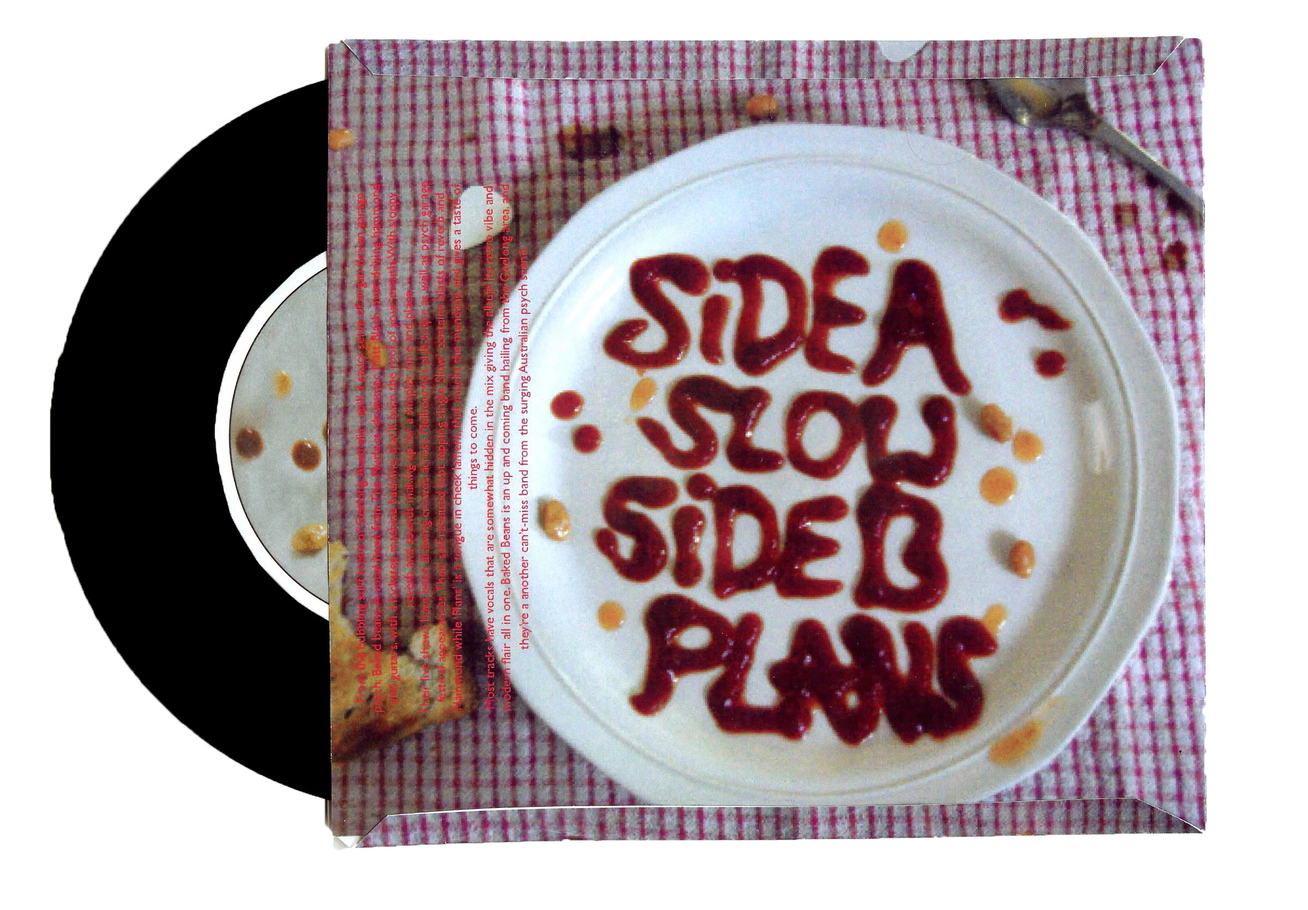
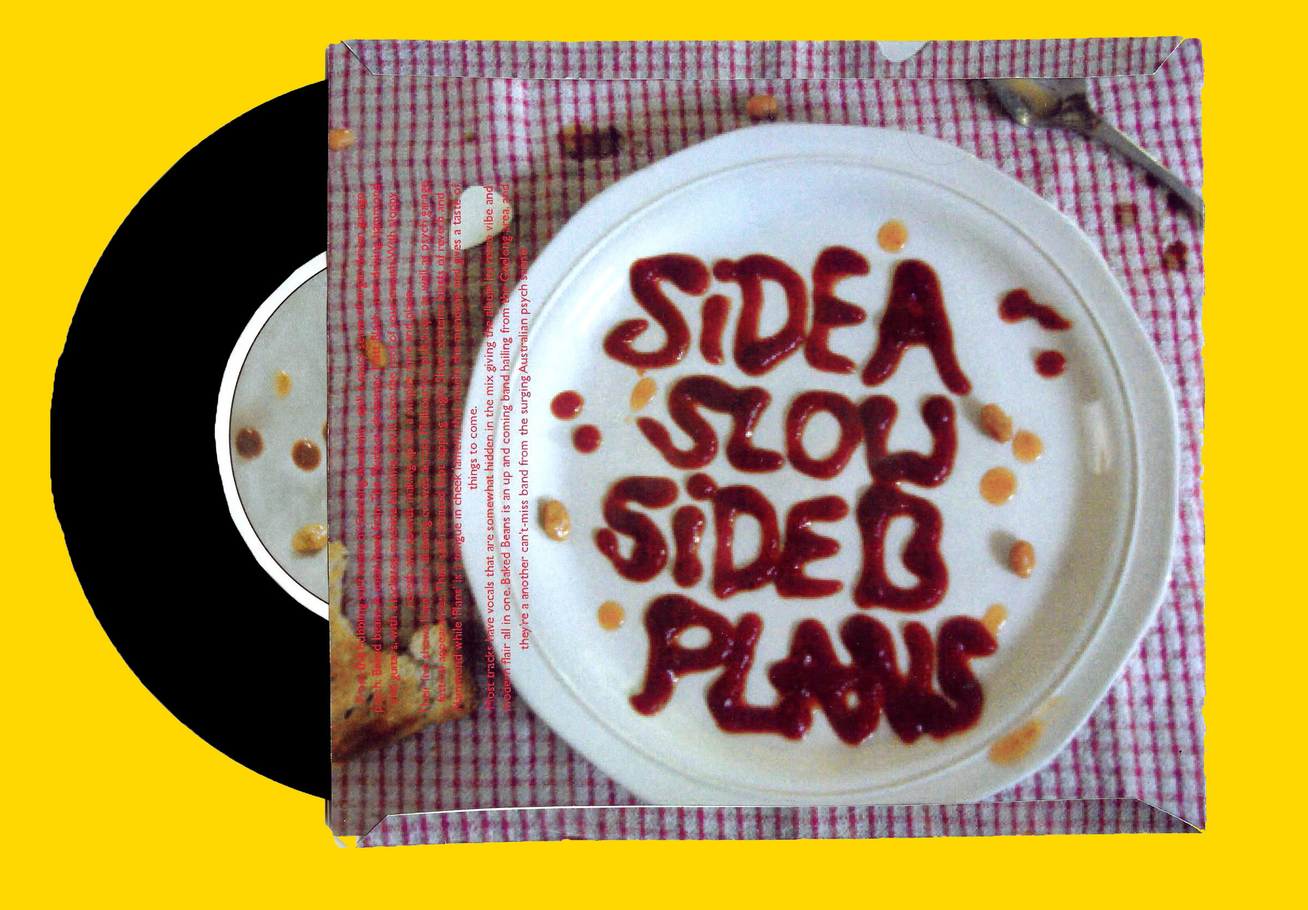
Folio Update

Changed region(s): [[0.0, 0.0, 1.0, 1.0]]

diff --git a/index.html b/index.html
@@ -29,41 +29,42 @@
      
   <div class = "item Print">
   <img src="assets/images/figure22.jpg">
+  This form of print media is something I would love to produce more of in the future. Designing for the independent music scene is an area of interest I would love to immerse my creative practice in as a designer.
   </div>
 
   <div class = "item Print">
   <img src="assets/images/figure21.jpg">
+  Baked Beans are an underground garage psychedelic rock band from Geelong. They produce psychedelic garage rock music with a strong retro vibe which has a modern flair to their sound. My simple yet sloppy quality to my design, replicates their sound visually.
   </div>
+
   <div class = "item Print">
   <img src="assets/images/figure10.jpg">
+  My campaign is spread across the two distributions of A0 sized posters and A4 sized flyers with a strong punk aesthetic. My campaign is having both an attack on the Federal Government for having no support for the arts, as well as informing the public of the recent government arts funding cuts. The role of the campaign is to both inform and bring to people's attention how important Australia's creative culture is to both the economy as well as to the cultural identity of Australia.
   </div>
 
   <div class = "item Print">
   <img src="assets/images/figure11.jpg">
+  I was influenced by the designer Jamie Reid’s use of both collage design as well as the application of simple bold colours for both of my forms of distribution. Jamie Reid often uses objects such as ski masks to obscure politicians/celebrities faces in his work, which I additionally incorporated into my own work through adding a ski mask over Prime Minister Scott Morrison’s face. Reinforcing the punk aesthetic while defacing the prime minster through my design.
   </div>
  
   <div class = "item Print">
   <img src="assets/images/figure14.jpg">
-  </div>
-
-  <div class = "item Print">
-  <img src="assets/images/figure12.jpg">
-  </div>
-
-  <div class = "item Print">
-  <img src="assets/images/figure15.jpg">
+  My processes of creating my posters and flyers were through creating my collage on Photoshop and then exporting each design as a bitmap file which created the grungy punk aesthetic to my posters as well as creating the distorted yet still punk in appearance flyer designs. My typeface of choice was Schmalfette, which further provided me with the ability to create and design poster and flyer designs with a strong punk aesthetic.
   </div>
 
   <div class = "item Print">
   <img src="assets/images/figure13.jpg">
+  My idea for distributing my posters and flyers are primarily through protests. Having protestors holding and displaying my posters will be effective to communicate the public’s outrage to the government as well as visually informing and educating other protestors about the issue. My ideas for the flyers are to also display them around CBD walls and electricity poles enabling pedestrians to pick up a flyer or even take a photo of a flyer with their phone. I also intend to display my posters and flyers throughout creative parts of Melbourne (such as the Collingwood arts precinct) showing support for affected stakeholders of the issue as well as providing affected stakeholders with access to my campaign.
   </div>
   
   <div class = "item Print">
   <img src="assets/images/figure18.jpg">
+  The publication is called 'Monster Children Newspaper' which was a newspaper of content sourced from Monster Children Magazine. This publication was printed on a low-quality paper stock, to give the publication a newspaper look and feel as well as reinforcing the grungy DIY aesthetic of some of the articles within the publication.
   </div>
 
   <div class = "item Print">
   <img src="assets/images/figure19.jpg">
+  I experimented with creating more dynamic compositions with both the body text and headings and in doing so I tried creating a more graphic appeal to both the images used and typography.
   </div>
 
   <div class = "item Print">
@@ -96,6 +97,10 @@
 
   <div class = "item Personal">
   <img src="assets/images/figure35.jpg">
+  </div>
+
+  <div class = "item Personal">
+  <img src="assets/images/figure37.PNG">
   </div>
 
   <!-- End container -->

diff --git a/assets/css/main.css b/assets/css/main.css
@@ -1,11 +1,12 @@
-.body {
+body {
 	font-family: Helvetica,Arial,sans-serif;
-	font-size: 45px;
+	font-size: 25px;
 	padding-left: 10px;
 	color: red;
-	text-align: center;
+	text-align: left;
 	position: relative;
 	bottom: 200px;
+  background-color: gold;
 
 }
 
@@ -20,7 +21,7 @@ a {
   .title {
 	font-family: Helvetica,Arial,sans-serif;
 	font-size: 200px;
-	padding: 80px;
+	padding-top: 300px;
 	margin-left: auto;
 	margin-right: auto;
 	width: 1400px;
@@ -30,20 +31,31 @@ a {
   z-index: 9999;
 	}
 
+  .body {
+  font-family: Helvetica,Arial,sans-serif;
+  font-size: 35px;
+  padding-left: 10px;
+  padding-top: 300px;
+  color: red;
+  text-align: center;
+  position: relative;
+  bottom: 200px;
+  }
+
   .nav {
   justify-content:flex-start;
-  background-color: white;
+  background-color: gold;
   top: 20px; 
   left: 500px;
   width: 100%;
   text-align: center;
   display: inline-block;
-  
+
 
  }
 
  .btn {
-  border: 1px red;
+  border: 3px red;
   color: red;
   padding: 10px 24px;
   cursor: pointer;
@@ -53,7 +65,7 @@ a {
 
  .btn:hover {
  	background-color: red;
- 	color: white;
+ 	color: gold;
  	cursor: pointer;
  }
 
@@ -64,14 +76,16 @@ a {
   flex-direction: row-reverse;
   align-items: flex-end;
   padding-top: 50px;
+  text-align: left;
+  background-color: gold;
 
  }
 
  .item {
-  width: 100%;
-  padding: 10px;
+  width: 50%;
+  padding: 20px;
   text-align: center;
-  background-color: white;
+  background-color: gold;
  
  }
 
@@ -80,6 +94,7 @@ a {
  	display: block;
  	margin: auto;
  	padding-bottom: 160px;
+  background-color: gold;
  }
 
 .smile:hover {
@@ -92,8 +107,11 @@ a {
   width:150px;
   height:150px;
   margin:10px;
-  background-color:red;
+  background-color:gold;
   transition:2s;
+  display: inline-block;
+  text-align: left;
+  padding-top: 
 }
 
   .box.active {
